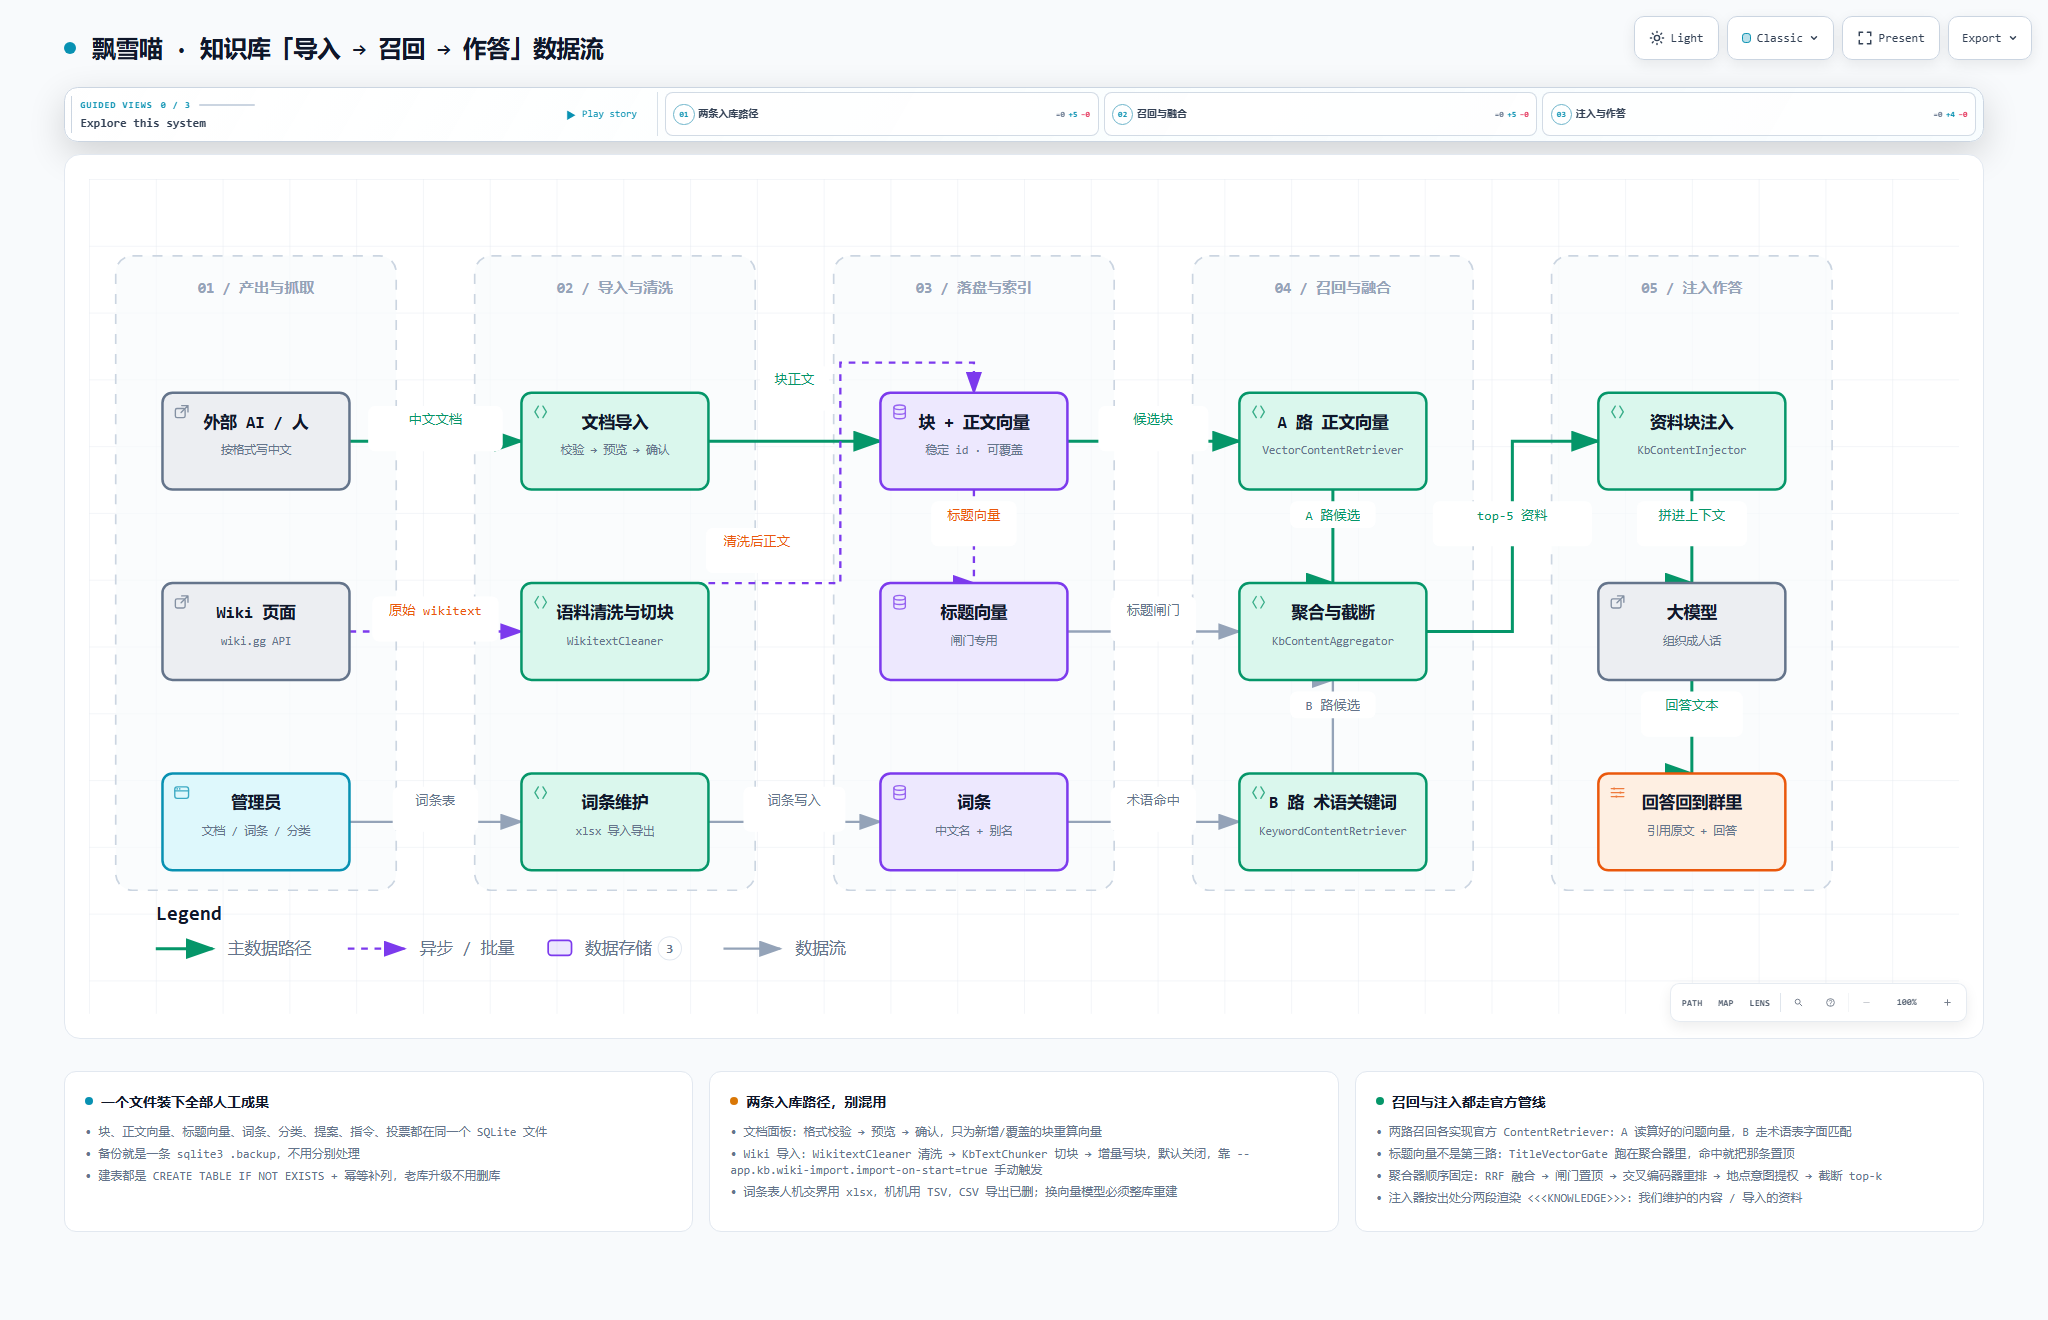
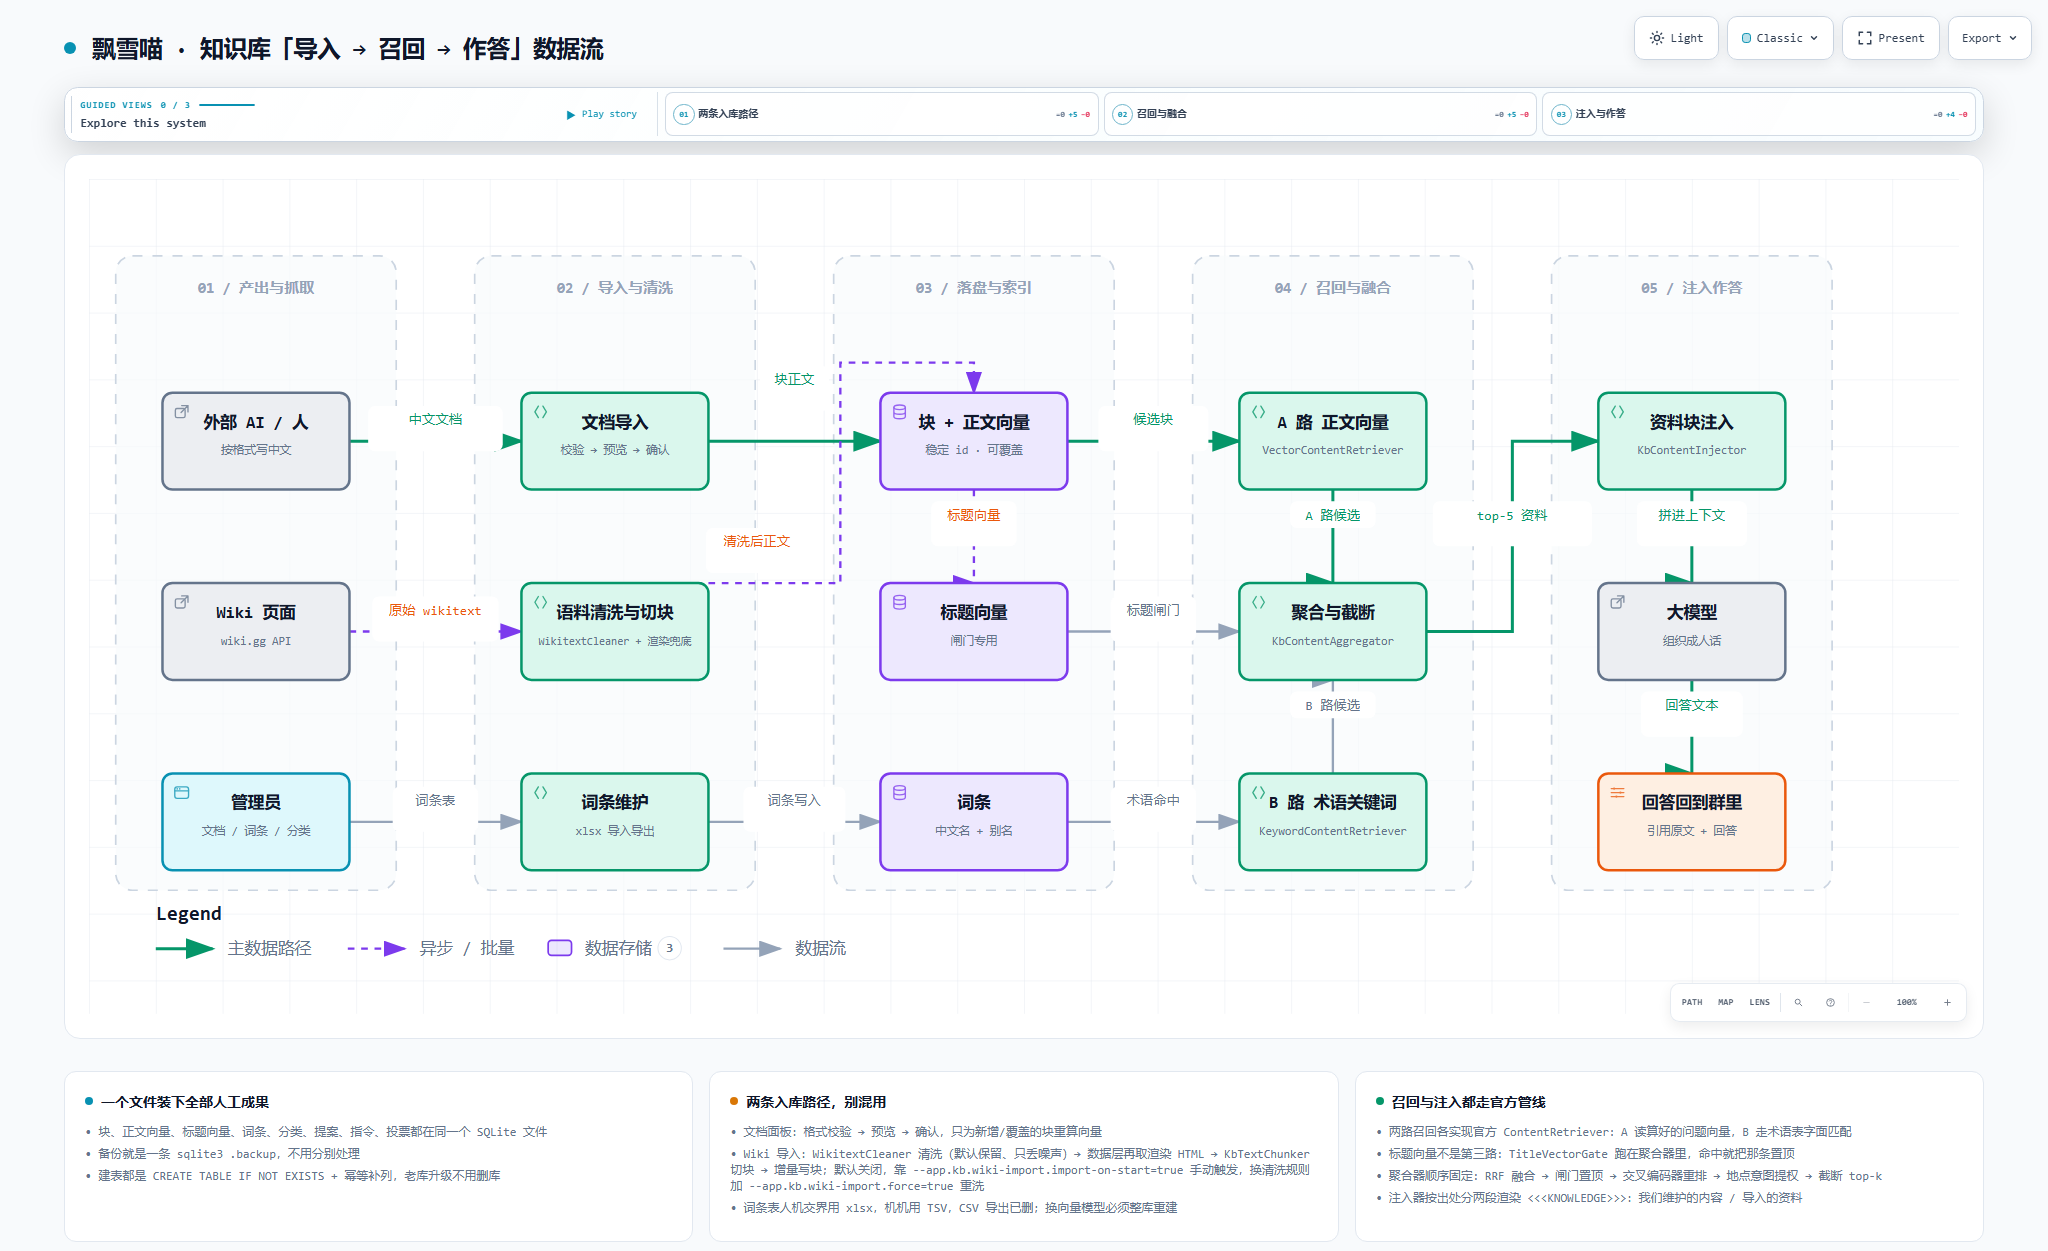
docs: 重新生成两张架构图，补上渲染兜底与强制重洗

diff --git a/docs/diagrams/kb-dataflow.html b/docs/diagrams/kb-dataflow.html
@@ -4994,15 +4994,15 @@
         <text data-detail="fine" x="315" y="175" class="t-backend" font-size="7" text-anchor="middle">只为变更块重算</text>
         </g>
 
-        <g id="node-cleaner" data-node-id="cleaner" data-node-label="语料清洗与切块" tabindex="0" role="button" aria-label="Focus 语料清洗与切块, WikitextCleaner, 02 / 导入与清洗" aria-pressed="false" data-node-kind="backend" data-node-sublabel="WikitextCleaner" data-node-tag="默认关" data-node-context="02 / 导入与清洗">
-          <title>语料清洗与切块 · WikitextCleaner · 02 / 导入与清洗 · 默认关</title>
+        <g id="node-cleaner" data-node-id="cleaner" data-node-label="语料清洗与切块" tabindex="0" role="button" aria-label="Focus 语料清洗与切块, WikitextCleaner + 渲染兜底, 02 / 导入与清洗" aria-pressed="false" data-node-kind="backend" data-node-sublabel="WikitextCleaner + 渲染兜底" data-node-tag="默认关" data-node-context="02 / 导入与清洗">
+          <title>语料清洗与切块 · WikitextCleaner + 渲染兜底 · 02 / 导入与清洗 · 默认关</title>
           <rect x="259" y="242" width="112" height="58" rx="6" class="c-mask"/>
           <rect x="259" y="242" width="112" height="58" rx="6" class="c-backend" stroke-width="1.5"/>
           <g aria-hidden="true" data-semantic-sigil="backend" class="semantic-sigil s-backend" transform="translate(265 248) scale(0.6875)">
             <path d="M6 3 3 8l3 5M10 3l3 5-3 5"/>
           </g>
           <text data-detail-anchor x="315" y="263" class="t-primary" font-size="10" font-weight="600" text-anchor="middle">语料清洗与切块</text>
-          <text data-detail="context" x="315" y="279" class="t-muted" font-size="7" text-anchor="middle">WikitextCleaner</text>
+          <text data-detail="context" x="315" y="279" class="t-muted" font-size="6.6" text-anchor="middle">WikitextCleaner + 渲染兜底</text>
         <text data-detail="fine" x="315" y="289" class="t-backend" font-size="7" text-anchor="middle">默认关</text>
         </g>
 
@@ -5425,7 +5425,7 @@
         </div>
         <ul>
           <li>&bull; 文档面板：格式校验 → 预览 → 确认，只为新增/覆盖的块重算向量</li>
-          <li>&bull; Wiki 导入：WikitextCleaner 清洗 → KbTextChunker 切块 → 增量写块，默认关闭，靠 --app.kb.wiki-import.import-on-start=true 手动触发</li>
+          <li>&bull; Wiki 导入：WikitextCleaner 清洗（默认保留、只丢噪声）→ 数据层再取渲染 HTML → KbTextChunker 切块 → 增量写块；默认关闭，靠 --app.kb.wiki-import.import-on-start=true 手动触发，换清洗规则加 --app.kb.wiki-import.force=true 重洗</li>
           <li>&bull; 词条表人机交界用 xlsx，机机用 TSV，CSV 导出已删；换向量模型必须整库重建</li>
         </ul>
       </div>

diff --git a/docs/diagrams/system-architecture.html b/docs/diagrams/system-architecture.html
@@ -4840,7 +4840,7 @@
       </div>
     </div>
 
-    <script id="archify-guided-views-data" type="application/json">[{"id":"round-trip","label":"一问一答的往返","focus":["qq_users","napcat","router","guard","assistant","llm"],"note":"去程与回程方向相反，回路闭合。"},{"id":"official-pipeline","label":"官方检索管线","focus":["assistant","recall","aggregator","inject","model_api","sqlite"],"note":"AiServices 驱动官方骨架：召回 → 聚合 → 注入。"},{"id":"corpus","label":"语料怎么进来","focus":["ingest","sqlite","recall"],"note":"文档导入 / wiki 抓取 / 地图同步平级，清洗分块后落进同一张块表。"},{"id":"web-plane","label":"双端站点","focus":["browsers","nginx","webapp","router"],"note":"公开站与后台共用 Nginx 与同一个 JVM，接口前缀各自独立。"}]</script>
+    <script id="archify-guided-views-data" type="application/json">[{"id":"round-trip","label":"一问一答的往返","focus":["qq_users","napcat","router","guard","assistant","llm"],"note":"去程与回程方向相反，回路闭合。"},{"id":"official-pipeline","label":"官方检索管线","focus":["assistant","recall","aggregator","inject","model_api","sqlite"],"note":"AiServices 驱动官方骨架：召回 → 聚合 → 注入。"},{"id":"corpus","label":"语料怎么进来","focus":["ingest","sqlite","recall"],"note":"文档导入 / wiki 抓取 / 地图同步平级，清洗（wikitext 默认保留，数据层再走渲染兜底）分块后落进同一张块表。"},{"id":"web-plane","label":"双端站点","focus":["browsers","nginx","webapp","router"],"note":"公开站与后台共用 Nginx 与同一个 JVM，接口前缀各自独立。"}]</script>
 
     <div class="guided-views no-print" id="guided-views" hidden aria-label="Guided diagram views">
       <button id="guided-view-prev" type="button" aria-label="Previous guided view" title="Previous guided view ([)">&#8592;</button>
